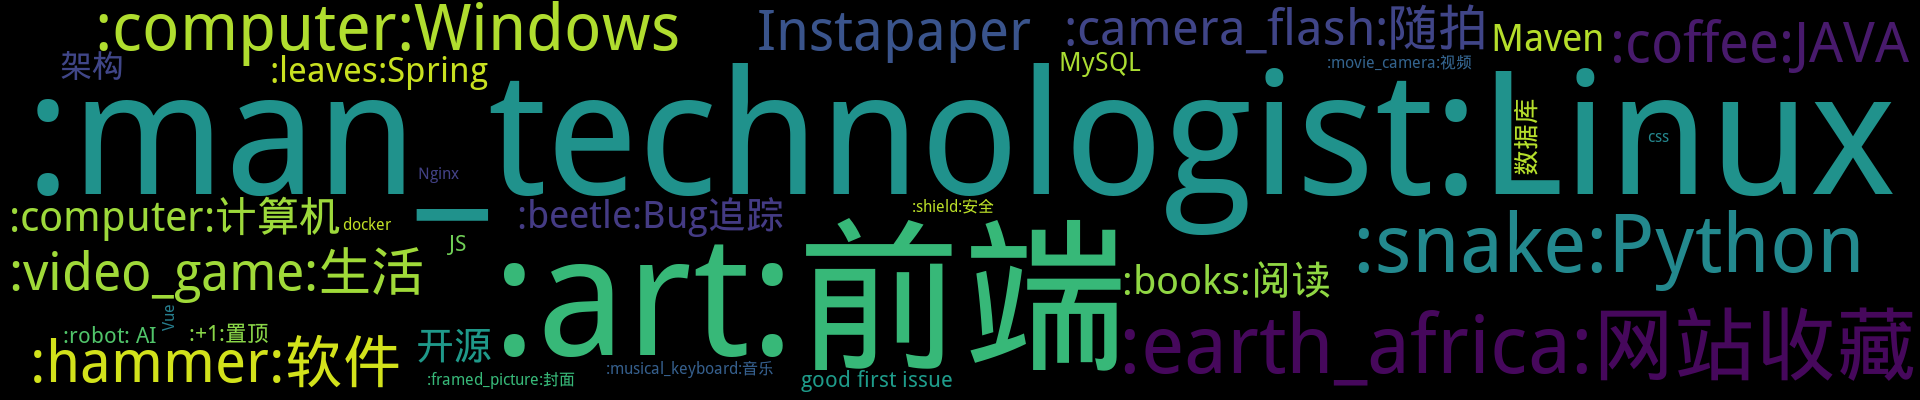
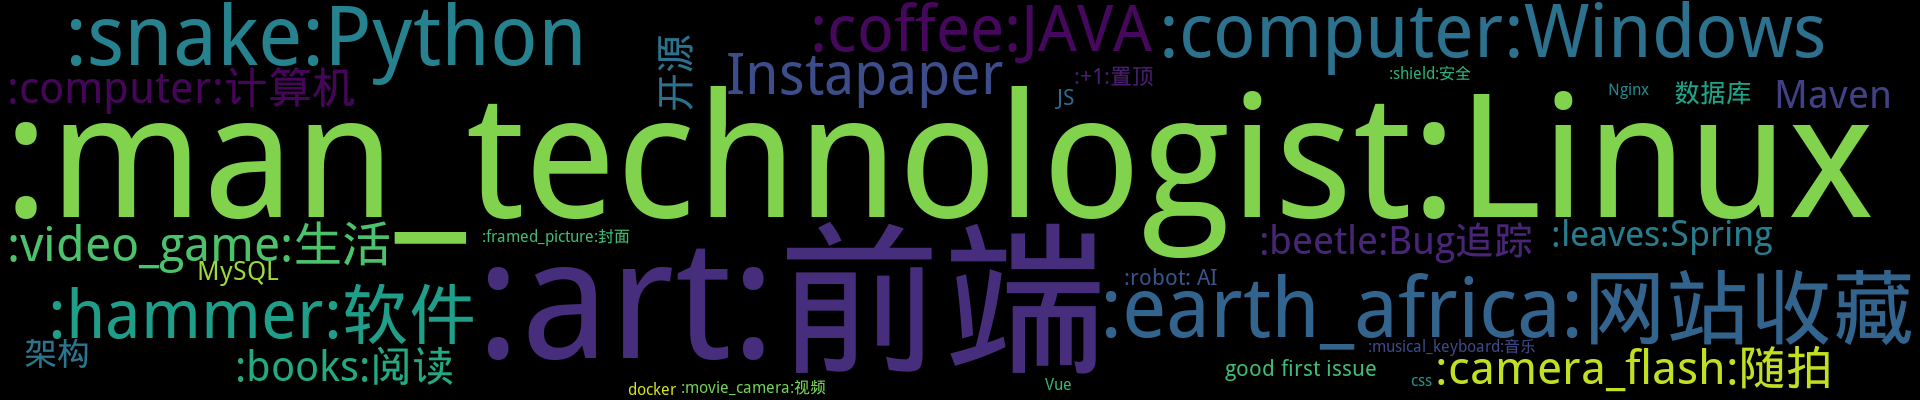
Update from Github Action

diff --git a/README.md b/README.md
@@ -3,7 +3,7 @@
 <p align='center'>
     <img src="https://badgen.net/badge/labels/31"/>
     <img src="https://badgen.net/github/issues/jwenjian/ghiblog"/>
-    <img src="https://badgen.net/badge/last-commit/2020-07-03 02:25:50"/>
+    <img src="https://badgen.net/badge/last-commit/2020-07-07 06:16:17"/>
     <img src="https://badgen.net/github/forks/jwenjian/ghiblog"/>
     <img src="https://badgen.net/github/stars/jwenjian/ghiblog"/>
     <img src="https://badgen.net/github/watchers/jwenjian/ghiblog"/>
@@ -36,6 +36,19 @@ LuckyYou - 一个跨平台工具，用于抽奖/课堂点名</span>
 - [【Trello】博客同步Trello看板](https://github.com/jwenjian/ghiblog/issues/147)  <sup>1 :speech_balloon:</sup>  	 
 - [基于Github Action自动生成并更新GitHub Issue博客的ReadMe](https://github.com/jwenjian/ghiblog/issues/1)  <sup>19 :speech_balloon:</sup>  	 
 ## 最新 :new: 
+
+#### [Microsoft Edge 新的标签页对应着一个网页](https://github.com/jwenjian/ghiblog/issues/271) <sup>0 :speech_balloon:</sup> 	 2020-07-07 06:15:36
+
+:label: : 
+
+https://ntp.msn.cn/edge/ntp?locale=en&dsp=0&sp=Google&query=enterprise&startpage=1
+
+在 edge 里输入这个网址 会直接跳转到新标签页
+
+[更多>>>](https://github.com/jwenjian/ghiblog/issues/271)
+
+---
+
 
 #### [Shoes! The easiest little GUI toolkit for Ruby.](https://github.com/jwenjian/ghiblog/issues/270) <sup>0 :speech_balloon:</sup> 	 2020-07-03 02:25:15
 
@@ -93,21 +106,6 @@ Card [CloudConvert](https://ift.tt/3dN4K6a) added the to the **&#35774;&#35745;&
 
 
 [更多>>>](https://github.com/jwenjian/ghiblog/issues/267)
-
----
-
-
-#### [FFMpeg无损合并视频的多种方法_doublefi123的专栏-CSDN博客_ffmpeg合并视频](https://github.com/jwenjian/ghiblog/issues/266) <sup>0 :speech_balloon:</sup> 	 2020-06-23 08:25:22
-
-:label: : 
-
-Card [FFMpeg&#26080;&#25439;&#21512;&#24182;&#35270;&#39057;&#30340;&#22810;&#31181;&#26041;&#27861;_doublefi123&#30340;&#19987;&#26639;-CSDN&#21338;&#23458;_ffmpeg&#21512;&#24182;&#35270;&#39057;](https://ift.tt/2Nmdzcf) added the to the **&#32593;&#32476;&#25910;&#34255;&#22841;** list in the **&#36935;&#35265;** board at `June 23, 2020 at 03:30PM`<br>
-&nbsp;<br>
-&gt; &#26041;&#27861;&#20108;&#65306;FFmpeg concat &#20998;&#31163;&#22120; &#36825;&#31181;&#26041;&#27861;&#25104;&#21151;&#29575;&#24456;&#39640;&#65292;&#20063;&#26159;&#26368;&#22909;&#30340;&#65292;&#20294;&#26159;&#38656;&#35201; FFmpeg 1.1 &#20197;&#19978;&#29256;&#26412;&#12290;&#20808;&#21019;&#24314;&#19968;&#20010;&#25991;&#26412;&#25991;&#20214;filelist.txt&#65306; file 'input1.mkv' file 'input2.mkv' file 'input3.mkv' &#28982;&#21518;&#65306; ffmpeg -f concat -i filelist.txt -c copy output.mkv &#27880;&#24847;&#65306;&#20351;&#29992; FFmpeg concat &#20998;&#31163;&#22120;&#26102;&#65292;&#22914;&#26524;&#25991;&#20214;&#21517;&#26377;&#22855;&#24618;&#30340;&#23383;&#31526;&#65292;&#35201;&#22312;&nbsp;filelist.txt&nbsp;&#20013;&#36716;&#20041;&#12290;<br>
-&nbsp;<br>
-
-
-[更多>>>](https://github.com/jwenjian/ghiblog/issues/266)
 
 ---
 
